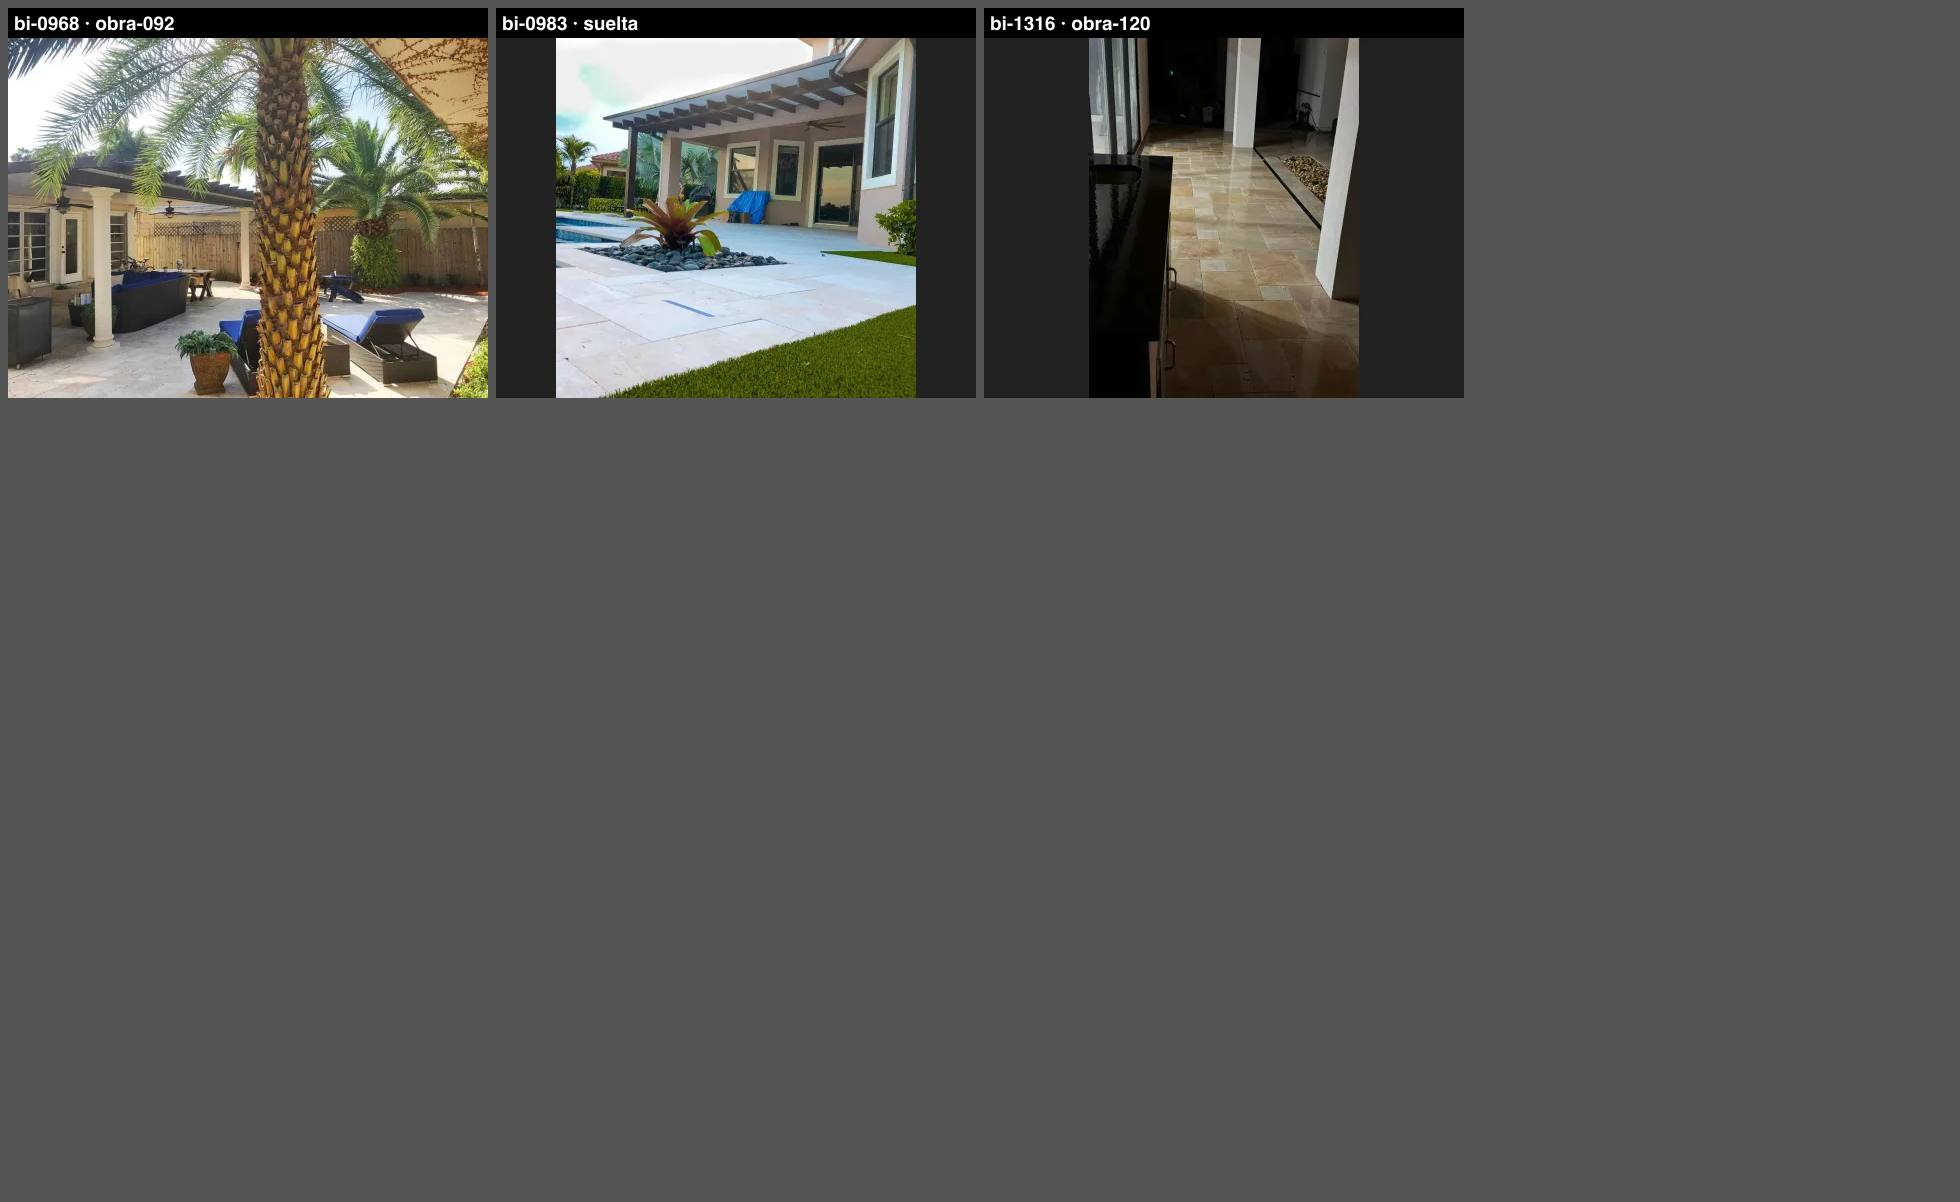
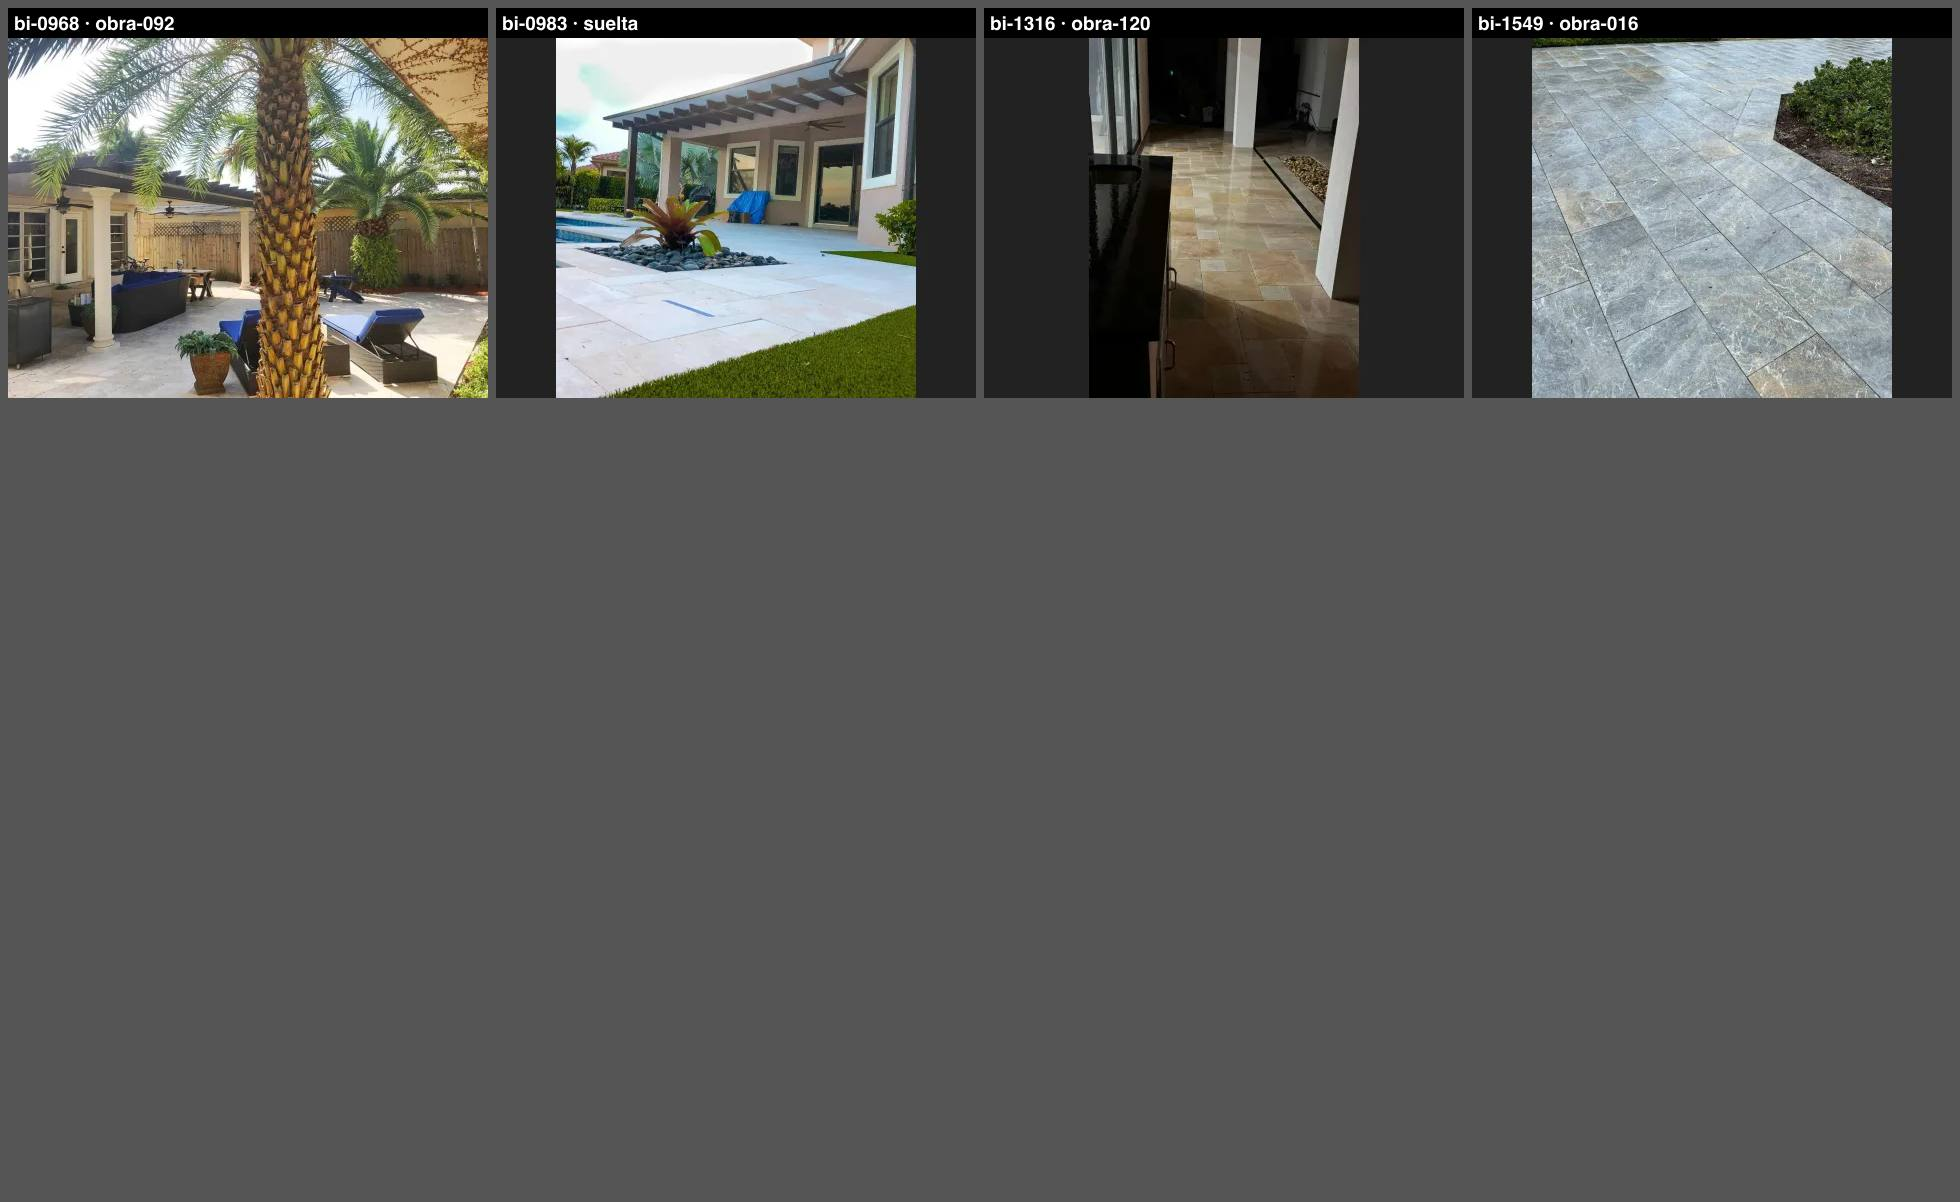
Las resenas de tarimas en Gainesville y McIntosh vuelven a 1:1, con el marmol gris recortado
bi-1549 es el recorte 1:1 de la mitad baja del original de bi-0086, sin la calle ni la casa
vecina, servido ya recortado y declarado casi igual a bi-0086. La foto nueva conserva la
proporcion de la que sustituye y el alto de las dos paginas no cambia en ningun ancho.

Changed region(s): [[0.7469, 0.0, 0.9959, 0.3386]]

diff --git a/BANCO-IMAGENES.md b/BANCO-IMAGENES.md
@@ -7,7 +7,7 @@ origen, con `PICTURES/` delante en el `origen` de lo que viene de ahí.
 
 | Qué | Dónde |
 |---|---|
-| Índice — **lo único que hay que leer** | `src/data/banco-imagenes.json` (1.548 entradas, 652 aprobadas) |
+| Índice — **lo único que hay que leer** | `src/data/banco-imagenes.json` (1.549 entradas, 653 aprobadas) |
 | Ficheros servidos (WebP, 1600 px, sin EXIF) | `public/images/banco/<servicio>/<slug>.webp` → URL `/images/banco/…` |
 | Hojas de contactos de lo aprobado | `banco/hojas/<servicio>-<etapa>-NN.jpg` |
 | Dudosas, con su pregunta | `banco/DUDOSAS.md` + `banco/hojas-dudosas/` |
